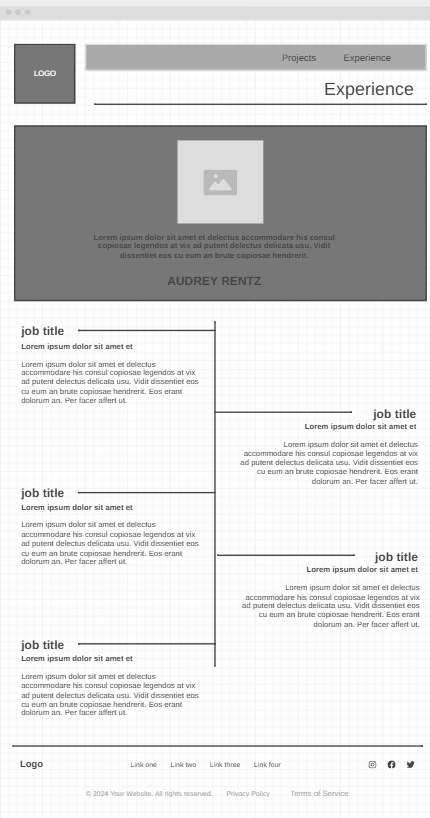
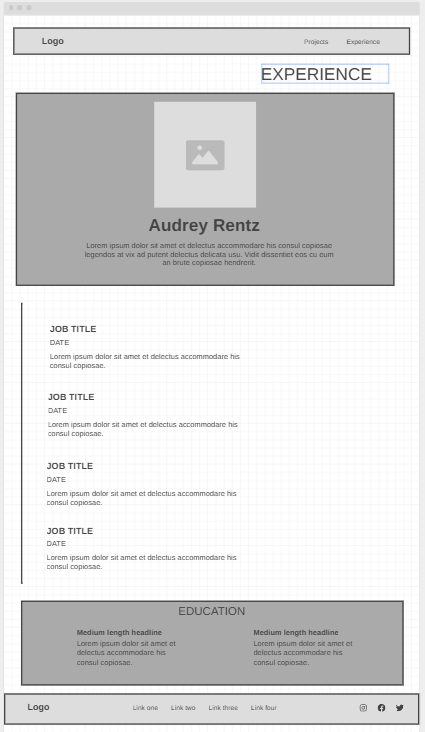
experience page css

diff --git a/portfolio/experience.html b/portfolio/experience.html
@@ -4,87 +4,107 @@
     <meta charset="UTF-8">
     <meta name="viewport" content="width=device-width, initial-scale=1.0">
     <title>Experience</title>
+    <link rel="stylesheet" href="styles/style.css">
 </head>
+
 <body>
     <header>
+
+        <img id="logo" src="images/white_logo_transparent.png" alt="logo">
+
         <nav>
-            <div class="logo">
-                <img src="images/portfolio_logo.png" alt="logo">
-            </div>
             <a href="index.html">About Me</a> 
             <a href="projects.html">Projects</a> 
             <a href="experience.html">Experience</a>
-        </nav>
+        </nav>  
     </header>
+
     <main>
-        <h1>Experience</h1>
+        <section id="experience-h">
+            <h1>Experience</h1>
+            <hr>
+        </section>
 
         <section class="bio-box">
-            <img src="images/aboutme.JPEG" alt="Audrey Rentz" Width="300" height="auto">
+            <img src="images/experiencephoto.JPEG" alt="Audrey Rentz">
             <div class="bio-text">
                 <h2>Audrey Rentz</h2>
                 <p>I am new to the world of coding and programming, and I’m excited to continue learning and growing in this field. While my background has primarily been in administrative, management, and event coordination roles, I have developed valuable problem-solving, organizational, and communication skills that I believe will translate well into software development and technology. My goal is to gain hands-on experience in coding and expand my technical skill set.</p>
             </div>
         </section>
         <secion class="work-experience">
-            <h2>Work Experience</h2>
+            
+            <div class="timeline">
+                <div class="job">
+                    <div class="job-content">
+                        <h3>Plexus RDC, Raleigh, NC – Office Administrator</h3>
+                        <p><strong>April 2024 – Present</strong></p>
+                        <ul>
+                            <li>Point of contact for email, phones, mail, etc.</li>
+                            <li>Scheduling and calendar management for Site Leadership Team and conference rooms.</li>
+                            <li>Vendor management.</li>
+                            <li>Shipping and receiving.</li>
+                            <li>Inventory management for office supplies and café.</li>
+                        </ul>
+                    </div>
+                </div>
 
-            <div class="job">
-                <h3>Plexus RDC, Raleigh, NC – Office Administrator</h3>
-                <p><strong>April 2024 – Present</strong></p>
-                <ul>
-                    <li>Point of contact for email, phones, mail, etc.</li>
-                    <li>Scheduling and calendar management for Site Leadership Team and conference rooms.</li>
-                    <li>Vendor management.</li>
-                    <li>Shipping and receiving.</li>
-                    <li>Inventory management for office supplies and café.</li>
-                </ul>
-            </div>
+                <div class="job">
+                    <div class="job-content">
+                        <h3>Clinton-Sampson Chamber of Commerce, Clinton, NC – Marketing & Events Coordinator</h3>
+                        <p><strong>July 2023 – August 2024</strong></p>
+                        <ul>
+                            <li>Managed administrative responsibilities including mail, email, phone calls, payments, and bank deposits.</li>
+                            <li>Planned and marketed events such as Ribbon Cuttings, Networking Events, Business After Hours, and the Clinton Christmas Parade.</li>
+                            <li>Developed and implemented the Sampson Junior Leadership Program.</li>
+                            <li>Trained new employees and created training materials.</li>
+                        </ul>
+                    </div>
+                </div>
 
-            <div class="job">
-                <h3>Clinton-Sampson Chamber of Commerce, Clinton, NC – Marketing & Events Coordinator</h3>
-                <p><strong>July 2023 – August 2024</strong></p>
-                <ul>
-                    <li>Managed administrative responsibilities including mail, email, phone calls, payments, and bank deposits.</li>
-                    <li>Planned and marketed events such as Ribbon Cuttings, Networking Events, Business After Hours, and the Clinton Christmas Parade.</li>
-                    <li>Developed and implemented the Sampson Junior Leadership Program.</li>
-                    <li>Trained new employees and created training materials.</li>
-                </ul>
-            </div>
+                <div class="job">
+                    <div class="job-content">
+                        <h3>Cato Fashions, Clinton, NC – Manager</h3>
+                        <p><strong>April 2023 – October 2023</strong></p>
+                        <ul>
+                            <li>Opened and closed the store as a keyholder.</li>
+                            <li>Managed bank deposits, cash drawer handling, and budget reports.</li>
+                            <li>Oversaw store upkeep, merchandising, inventory management, and markdowns.</li>
+                        </ul>
+                    </div>
+                </div>
 
-            <div class="job">
-                <h3>Cato Fashions, Clinton, NC – Manager</h3>
-                <p><strong>April 2023 – October 2023</strong></p>
-                <ul>
-                    <li>Opened and closed the store as a keyholder.</li>
-                    <li>Managed bank deposits, cash drawer handling, and budget reports.</li>
-                    <li>Oversaw store upkeep, merchandising, inventory management, and markdowns.</li>
-                </ul>
-            </div>
+                <div class="job">
+                    <div class="job-content">
+                        <h3>Clinton City Schools, Clinton, NC – Substitute Teacher</h3>
+                        <p><strong>March 2022 – October 2023</strong></p>
+                        <ul>
+                            <li>Followed lesson plans and classroom management strategies in the absence of full-time teachers.</li>
+                            <li>Maintained attendance records and ensured students stayed engaged and on task.</li>
+                        </ul>
+                    </div>
+                </div>
 
-            <div class="job">
-                <h3>Clinton City Schools, Clinton, NC – Substitute Teacher</h3>
-                <p><strong>March 2022 – October 2023</strong></p>
-                <ul>
-                    <li>Followed lesson plans and classroom management strategies in the absence of full-time teachers.</li>
-                    <li>Maintained attendance records and ensured students stayed engaged and on task.</li>
-                </ul>
             </div>
         </secion>
+
+        
         <section class="education">
             <h2>Education</h2>
-            <div class="school">
-                <h3>Johnston Community College, Smithfield, NC</h3>
-                <p>Associate of Science & Associate of Arts</p>
-            </div>
-
-            <div class="school">
-                <h3>Brigham Young University - Idaho (Current Student)</h3>
-                <p>Pursuing a Bachelor’s in Computer Science</p>
+            <div class="education-container">
+                <div class="school">
+                    <h3>Johnston Community College, Smithfield, NC</h3>
+                    <p>Associate of Science & Associate of Arts</p>
+                </div>
+        
+                <div class="school">
+                    <h3>Brigham Young University - Idaho (Current Student)</h3>
+                    <p>Pursuing a Bachelor’s in Computer Science</p>
+                </div>
             </div>
             
-            <img src="images/byuilogo.png" alt="BYU-I Logo" width="400" height="auto">
         </section>
+
     </main>
 
 

diff --git a/portfolio/styles/style.css b/portfolio/styles/style.css
@@ -290,3 +290,103 @@ footer a:hover {
     height: auto;
     object-fit: cover;
 }
+
+#experience-h h1 {
+    text-align: right;
+}
+
+#experience-h hr {
+    margin-bottom: 20px;
+}
+
+.bio-box {
+    background-color: #588157;
+    color: white;
+    text-align: center;
+    padding: 20px;
+}
+
+.bio-box img {
+    display: block;
+    margin: 0 auto; 
+    width: 350px;
+    height: auto;
+}
+
+.bio-text {
+    margin-top: 15px;
+}
+
+.timeline {
+    position: relative;
+    padding-left: 40px;
+    margin: 40px 0;
+}
+
+.timeline::before {
+    content: "";
+    position: absolute;
+    left: 10px;
+    top: 0;
+    width: 4px;
+    height: 100%;
+    background-color: #3A5A40; /* Dark green line */
+}
+
+.job {
+    position: relative;
+    margin-bottom: 40px;
+    padding-left: 30px;
+}
+
+.job::before {
+    content: "";
+    position: absolute;
+    left: 0;
+    top: 10px;
+    width: 15px;
+    height: 15px;
+    background-color: #588157; /* Light green circle */
+    border-radius: 50%;
+    border: 3px solid white;
+}
+
+.job-content {
+    background: #e0e0e0; /* Light gray background */
+    padding: 15px 25px;
+    border-radius: 8px;
+    box-shadow: 2px 2px 10px rgba(0, 0, 0, 0.1);
+}
+
+.education hr {
+    margin-bottom: 20px;
+}
+
+.education {
+    text-align: center;
+    background-color: #588157;
+    color: white;
+    padding-top: 20px;
+    padding-bottom: 20px;
+}
+
+.education h2 {
+    text-align: center;
+    margin-bottom: 20px;
+}
+
+.education-container {
+    display: flex;
+    justify-content: center;
+    gap: 40px; 
+    flex-wrap: wrap; 
+    margin-bottom: 20px;
+}
+
+.school {
+    padding: 15px 25px;
+    width: 300px; 
+}
+
+
+
